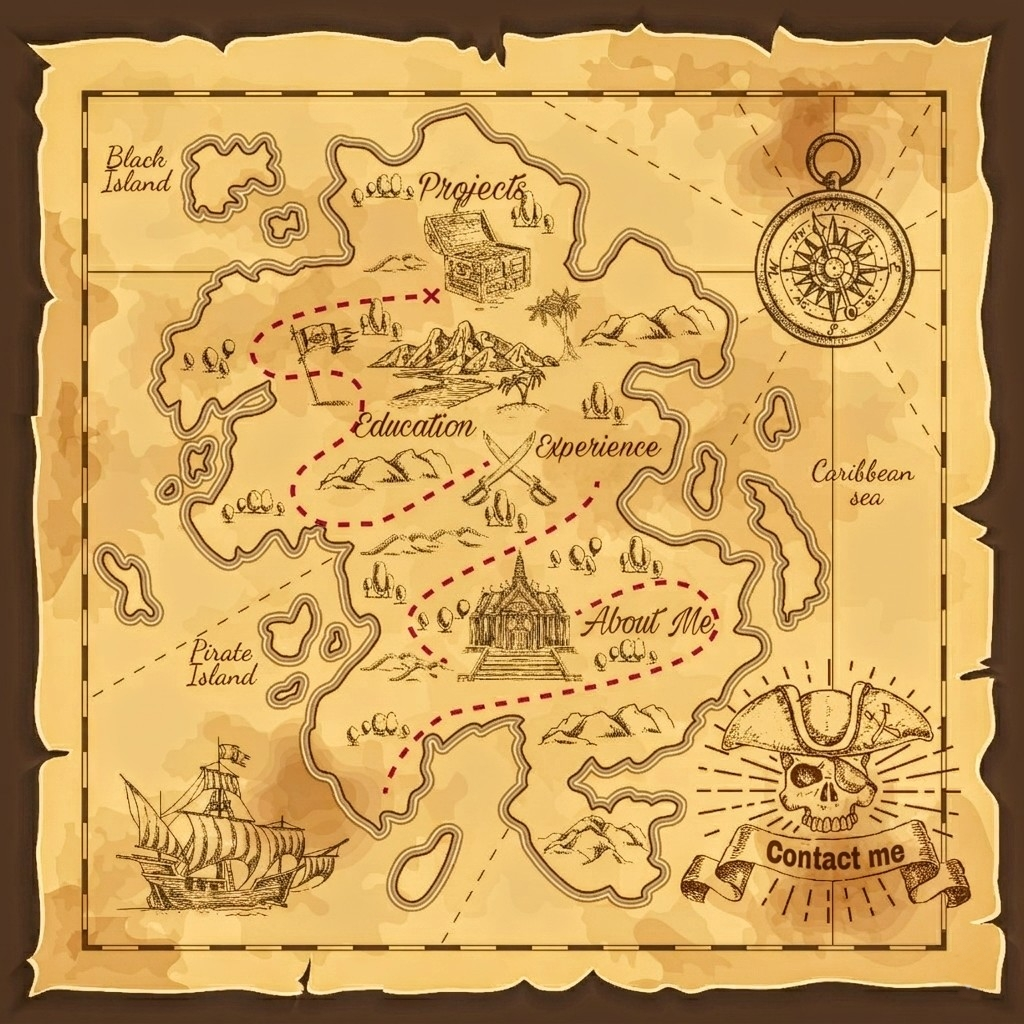
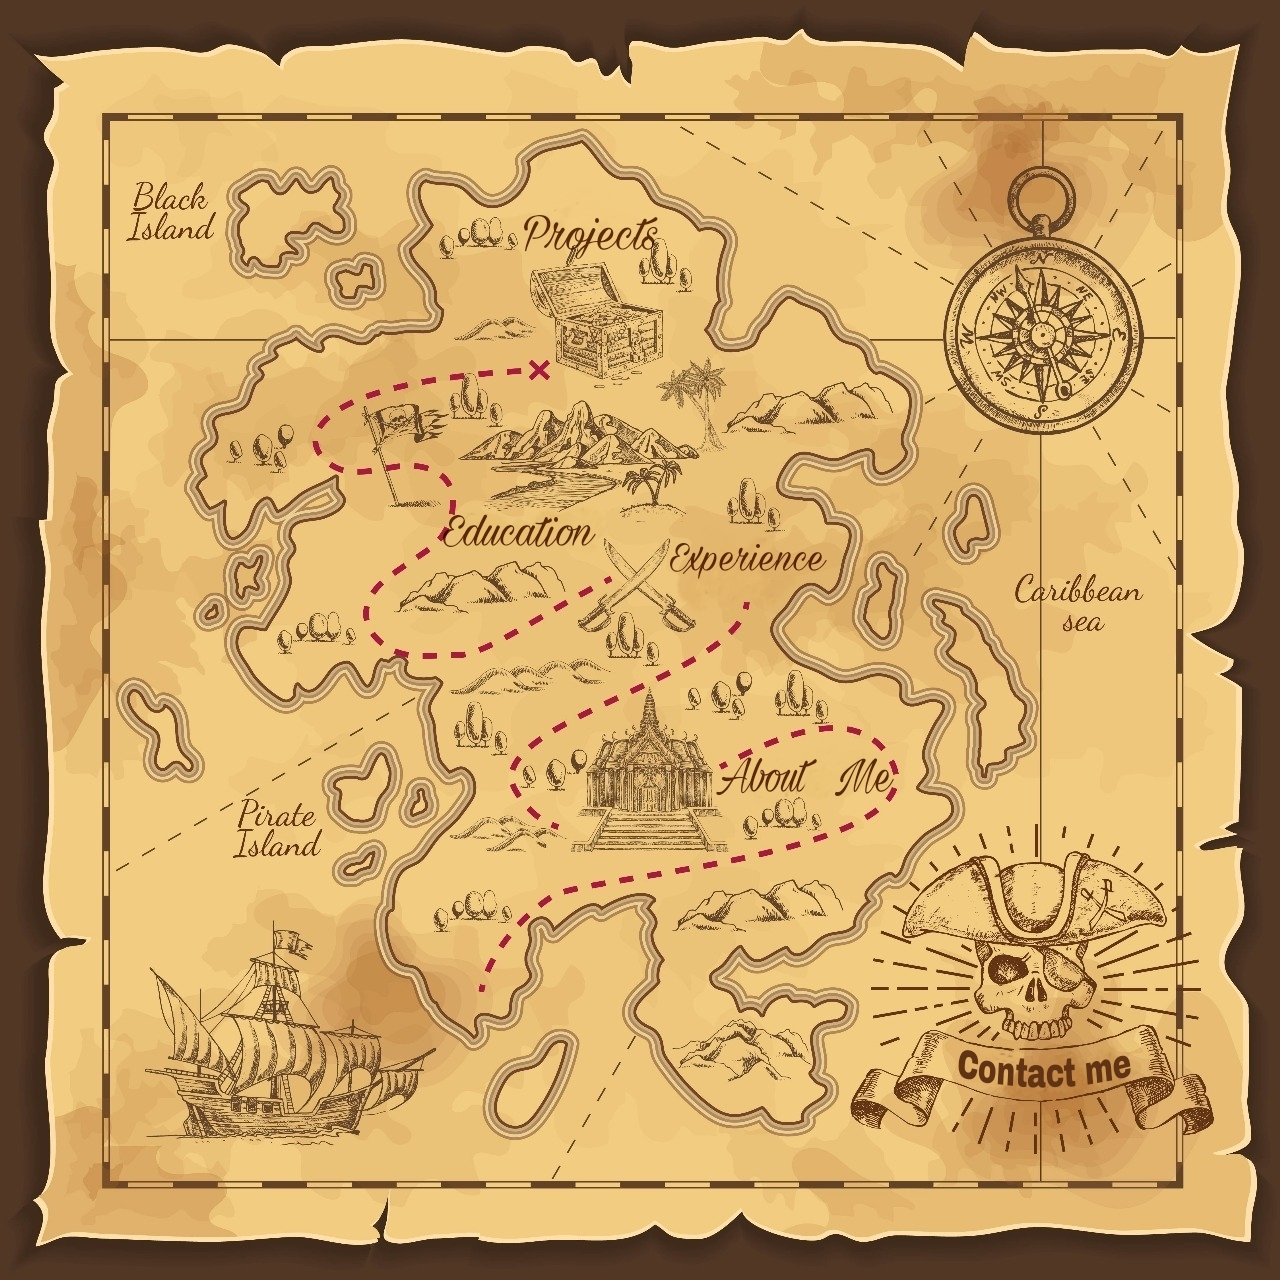
some font size improvements and adding projects

diff --git a/src/sections/Projects.js b/src/sections/Projects.js
@@ -1,4 +1,4 @@
-import {useState, useEffect}  from "react";
+import { useState, useEffect } from "react";
 import { motion, AnimatePresence } from "framer-motion";
 
 const projects = [
@@ -13,7 +13,7 @@ const projects = [
         the medicine they need, eliminating the frustration of visiting multiple
         pharmacies. On the other side, pharmacists can manage their inventory,
         receive medicine requests, and stay connected with clients through an
-        intuitive dashboard.<br/><br/>
+        intuitive dashboard.<br /><br />
         <strong>Features</strong>
         <ul>
           <li>Real-time map to locate nearby pharmacies</li>
@@ -43,15 +43,78 @@ const projects = [
     ),
 
     fdescription:
-      "a fully secured Debian-based virtual machine following strict system administration standards. This project strengthened my skills in Linux administration, virtualization, system security, and network configuration",
+      "Farmanear is a web application designed to simplify the process of locating pharmacies and finding available medicines in real time.",
     skills: [
-      "Linux System Administration",
-      "Virtualization & Hypervisors ",
-      "SSH Configuration & Secure Access",
-      "Firewall Management ",
-      "Web Server Configuration (lighttpd)",
+      "Full-Stack Development",
+      "REST API Design & Integration",
+      "Interactive Map Integration (Leaflet)",
+      "Authentication & User Management",
     ],
-    images: [`${process.env.PUBLIC_URL}/projects/ph1.jpeg`,`${process.env.PUBLIC_URL}/projects/pharmanear.mp4`],
+    images: [`${process.env.PUBLIC_URL}/projects/ph1.jpeg`, `${process.env.PUBLIC_URL}/projects/pharmanear.mp4`],
+  },
+  {
+    title: "Call-Me-Maybe",
+    date: "Apr 2026 – May 2026",
+    description: (
+      <div>
+        Call-Me-Maybe is a lightweight local LLM inference engine designed to convert natural language prompts into structured function calls using constrained decoding.
+        <br/>
+        The project uses Hugging Face models and implements a custom state-machine decoder to guarantee valid JSON generation while minimizing hallucinations and formatting errors.
+        <br/>
+        Instead of allowing the language model to freely generate output, deterministic JSON syntax is injected manually while the model is constrained to generate only semantic values such as:
+        <br/>
+        <ul>
+          <li>function names</li>
+          <li>numbers</li>
+          <li>strings</li>
+          <li>regex expressions</li>
+        </ul>
+        <br/>
+        The goal of the project is to explore how modern LLM inference systems work internally and how constrained decoding can improve reliability, speed, and structured generation.<br /><br />
+      </div>
+    ),
+
+    fdescription:
+      "Call-Me-Maybe is a lightweight local LLM inference engine designed to convert natural language prompts into structured function calls using constrained decoding.",
+    skills: [
+      "Understanding of Large Language Models (LLMs)",
+      "Artificial Intelligence & Machine Learning",
+      "Natural Language Processing (NLP)",
+      "LLM Inference & Decoding",
+      "AI Infrastructure & Tooling",
+      "Problem Solving & Optimization"
+    ],
+    images: [`${process.env.PUBLIC_URL}/projects/llm.jpg`],
+  },
+  {
+    title: "A-Maze-ing",
+    date: "Jan 2026 – Feb 2026",
+    description: (
+      <div>
+        A-Maze-ing is a python project that generates and displays mazes using maze generation algorithms. <br />
+        The goal of the project is to explore algorithmic maze construction while respecting structural constraints
+        The project implements different maze generation strategies such as Depth-First Search and Breadth-First Search to solve the maze and provide the shorteast path. <br />
+        In addition we add different bounuses part like Play Mode with more options.
+        <br /><br />
+        <strong>Project Goals</strong>
+        <ul>
+          <li>Understand and implement graph traversal algorithms</li>
+          <li>Compare different procedural generation techniques</li>
+          <li>Write clean, typed Python code (mypy compliant)</li>
+          <li>Provide a fully automated Makefile workflow</li>
+          <li> Package implement</li>
+        </ul>
+      </div>
+    ),
+
+    fdescription:
+      "A-Maze-ing is a python project that generates and displays mazes using maze generation algorithms.",
+    skills: [
+      "DFS algorithm",
+      "BFS algorithm",
+      "Packaging Design",
+    ],
+    images: [`${process.env.PUBLIC_URL}/projects/maze.png`],
   },
   {
     title: "Born2beroot",
@@ -239,8 +302,7 @@ const Projects = ({ onClose }) => {
   const [galleryOpen, setGalleryOpen] = useState(false);
   const [currentImage, setCurrentImage] = useState(0);
   const [currentPage, setCurrentPage] = useState(0);//
-  // const isMobile = window.innerWidth <= 768;
-  // const cardsPerPage = isMobile ? 1 : 3;//
+
 
   const [isMobile, setIsMobile] = useState(window.innerWidth <= 768);
 
@@ -438,8 +500,8 @@ const Projects = ({ onClose }) => {
       padding: "0.5rem 1rem",
       background: "transparent",
       borderRadius: "50%",
-      border:"none",
-      outline:"none",
+      border: "none",
+      outline: "none",
       // &&:hover{
 
       // }
@@ -487,8 +549,8 @@ const Projects = ({ onClose }) => {
                 {typeof project.description === "string"
                   ? project.description.slice(0, 100) + "..."
                   : project.fdescription
-                  ? project.fdescription.slice(0, 100) + "..."
-                  : "Click to view details"}
+                    ? project.fdescription.slice(0, 100) + "..."
+                    : "Click to view details"}
               </p>
             </div>
           </motion.div>
@@ -562,7 +624,7 @@ const Projects = ({ onClose }) => {
               <div
                 style={{
                   textAlign: "left",
-                  fontSize: "clamp(0.9rem, 1.2vw, 1.4rem)",
+                  fontSize: "clamp(0.9rem, 1vw, 1.4rem)",
                 }}
               >
                 {selected.description}

diff --git a/src/sections/Education.js b/src/sections/Education.js
@@ -10,7 +10,7 @@ const Education = ({ onClose }) => {
       padding: isMobile ? "1rem" : "2rem",
 
       width: isMobile ? "90vw" : "80vw",
-      height: isMobile ? "95vh" : "70vh",
+      height: isMobile ? "95vh" : "80vh",
       overflowY: "auto",
       margin: isMobile ? "0" : "2rem auto",
       border: isMobile ? "5px double #000" : "10px double #000",
@@ -36,17 +36,6 @@ const Education = ({ onClose }) => {
       margin: "0.5rem 0 2rem 0",
     },
 
-    newspaperColumns: {
-      // display: "flex",
-      // gap: "2rem",
-    },
-
-    column: {
-      // display:  "flex",
-      // justifyContent: "space-around",
-      // gap: "10%",
-    },
-
     newspaperSection: {
       marginBottom: "4rem",
       display: "grid",
@@ -55,7 +44,7 @@ const Education = ({ onClose }) => {
     },
 
     sectionTitle: {
-      fontSize: isMobile ? "1rem" : "1.6rem",
+      fontSize: "clamp(1.2rem, 1.8vw, 2rem)",
       fontWeight: "bold",
       marginBottom: "1.5rem",
       fontFamily: '"Cinzel", serif',
@@ -65,7 +54,7 @@ const Education = ({ onClose }) => {
     sectionSubtitle: {
       fontStyle: "italic",
       marginBottom: "0.5rem",
-      fontSize: isMobile ? ".7rem" : "1.3rem",
+      fontSize: "clamp(0.9rem, 1.3vw, 1.6rem)",
     },
 
     schoolImg: {
@@ -73,6 +62,7 @@ const Education = ({ onClose }) => {
       height: "auto",
       border: "3px solid #000",
       filter: "sepia(60%) grayscale(40%)",
+      margin: "auto"
     },
     closeBtn: {
       position: "absolute",

diff --git a/src/sections/Experience.js b/src/sections/Experience.js
@@ -26,18 +26,16 @@ const Experience = ({ onClose }) => {
       display: "flex",
       justifyContent: "center",
       alignItems: "center",
-      width:isMobile? "100%" :"80vw",
+      width: isMobile? "100%" :"80vw",
       height: "100%",
     },
     document: {
       backgroundColor: "#fef3c7",
-      // backgroundColor:"red",
       border: "4px solid #92400e",
       position: "relative",
       transform:isMobile ? "0deg" : "rotate(1deg)",
       boxShadow: "0 25px 50px -12px rgba(0,0,0,0.5)",
-    //   width: "100%",
-      height:isMobile? "100%": "80vh",
+      height:isMobile? "100%": "90vh",
       overflowY: "hidden",
       borderRadius: "8px",
     },
@@ -120,7 +118,7 @@ const Experience = ({ onClose }) => {
       flexWrap: "wrap",    
     },
     infoRow: {
-      fontSize: isMobile ? "0.8rem" : "1.1rem",
+      fontSize: "clamp(0.8rem, 0.9vw, 1rem)",
       marginBottom: "0.3rem",
       lineHeight: 1.4,
       textAlign: "left",

diff --git a/src/sections/AboutMe.js b/src/sections/AboutMe.js
@@ -56,7 +56,6 @@ const AboutMe = ({ onClose }) => {
       fontWeight: "bold",
       cursor: "pointer",
       zIndex: 10,
-      // display: isMobile ? "flex" : "none",
       justifyContent: "center",
       alignItems: "center",
     },
@@ -80,7 +79,7 @@ const AboutMe = ({ onClose }) => {
       flexWrap: "wrap",
     },
     mainGrid: {
-      marginTop: "30px",
+      marginTop: "-30px",
       display: "grid",
       gridTemplateColumns: isMobile ? "1fr" : "1fr 1fr",
       gap: isMobile? "0.5rem" :"1.5rem" ,
@@ -89,7 +88,7 @@ const AboutMe = ({ onClose }) => {
     : `" text image"`,    // desktop → image left, text right
     },
     infoRow: {
-      fontSize: "clamp(0.9rem, 1.8vw, 1.5rem)",
+      fontSize: "clamp(0.9rem, 1.2vw, 1.5rem)",
       marginBottom: "0.5rem",
       lineHeight: 1.5,
       fontFamily: "Caveat, cursive",
@@ -144,7 +143,7 @@ const AboutMe = ({ onClose }) => {
           <div style={styles.header}>
             <div style={styles.headerText}>ABOUT ME</div>
             <div style={styles.subHeader}>
-              <span>ID: OSS-2025</span>
+              <span>ID: OSS-2000</span>
               <span>STATUS: Open to opportunities</span>
             </div>
           </div>

diff --git a/src/sections/Contact.js b/src/sections/Contact.js
@@ -8,7 +8,7 @@ const Contact = ({onClose}) => {
     email: "",
     message: "",
   });
-  // const isMobile = window.innerWidth <= 768;
+
   const [isMobile, setIsMobile] = useState(window.innerWidth <= 768);
   
   useEffect(() => {
@@ -138,9 +138,11 @@ const Contact = ({onClose}) => {
     },
     inputs: {
       marginBottom: "1rem",
+      marginTop: "1rem",
       padding: " 0.7rem",
       border: "1px solid #444",
       fontFamily: "inherit",
+      background: "#f9f3df"
     },
     formBottom: {
       background: " #222",
@@ -165,7 +167,6 @@ const Contact = ({onClose}) => {
       fontWeight: "bold",
       cursor: "pointer",
       zIndex: 10,
-      // display: isMobile ? "flex" : "none",
       justifyContent: "center",
       alignItems: "center",
     },
@@ -207,7 +208,7 @@ const Contact = ({onClose}) => {
     <button style={styles.closeBtn} onClick={onClose}>
           ✕
         </button>
-      <p style={styles.subHeadline}>I’d love to hear from my you!</p>
+      <p style={styles.subHeadline}>I’d love to hear from you!</p>
 
       <div  style={styles.letterContainer}>
         <div style={styles.letterForm}>